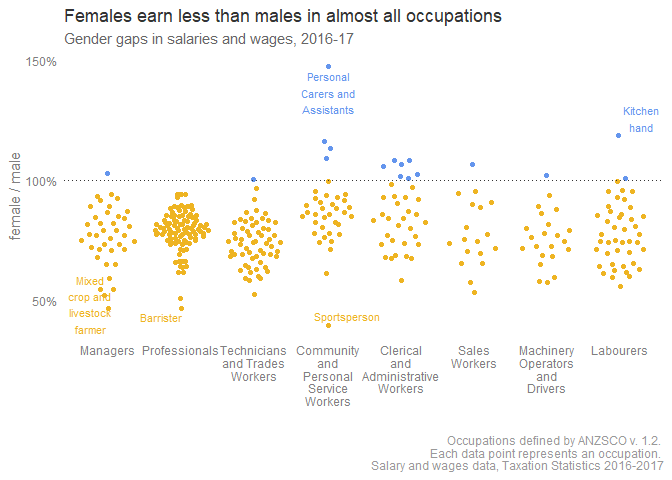
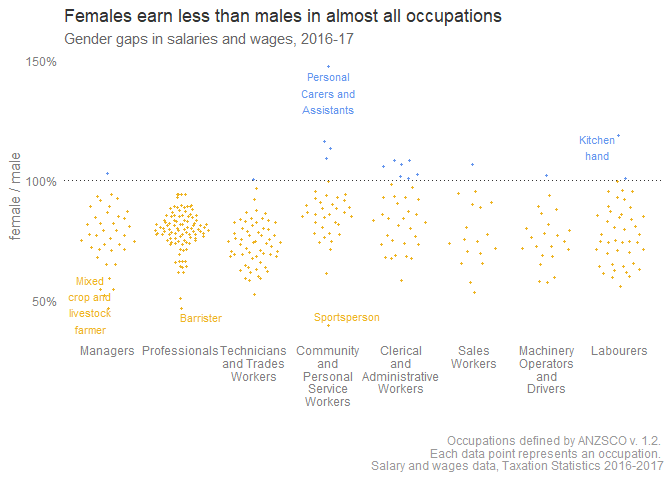
correct mistaken use of total instead of av

diff --git a/code/wages_aus.md b/code/wages_aus.md
@@ -1,5 +1,6 @@
 ---
-title: "R Notebook"
+title: "Gender differences in wages and salaries in Australia"
+author: "Philip Khor"
 output:
   html_document:
     df_print: paged
@@ -142,7 +143,7 @@ tbl14b_by_main %>%
 ![](wages_aus_files/figure-html/unnamed-chunk-3-1.png)<!-- -->
 
 ```r
-ggsave(here("output", "average_salaries_gender_category.svg"))
+ggsave(here("output", "average_salaries_gender_category.png"))
 ```
 
 ```
@@ -177,7 +178,7 @@ tbl14b_by_occupation %>%
 ![](wages_aus_files/figure-html/unnamed-chunk-4-1.png)<!-- -->
 
 ```r
-ggsave(here("output", "salaries_distribution.svg"))
+ggsave(here("output", "salaries_distribution.png"))
 ```
 
 ```
@@ -245,7 +246,7 @@ subset_14b %>%
          occupation_lab = ifelse(female_pct_male > 1.18 | female_pct_male < .5, occupation, ""), 
          gap_color = female_pct_male > 1) %>% 
   ggplot(aes(x = names, y = female_pct_male, color = gap_color)) + 
-  geom_quasirandom() + 
+  geom_quasirandom(size = .6) + 
   geom_text_repel(aes(label = str_wrap(occupation_lab, 10)), size = 3) + 
   guides(color = FALSE) + 
   # coord_flip() + 
@@ -266,7 +267,7 @@ subset_14b %>%
 ![](wages_aus_files/figure-html/unnamed-chunk-6-1.png)<!-- -->
 
 ```r
-ggsave(here("output", "female_over_male.svg"))
+ggsave(here("output", "female_over_male.png"))
 ```
 
 ```
@@ -310,7 +311,7 @@ subset_14b %>%
 ![](wages_aus_files/figure-html/unnamed-chunk-7-1.png)<!-- -->
 
 ```r
-ggsave(here("output", "narrowing_gender_gap.svg"))
+ggsave(here("output", "narrowing_gender_gap.png"))
 ```
 
 ```
